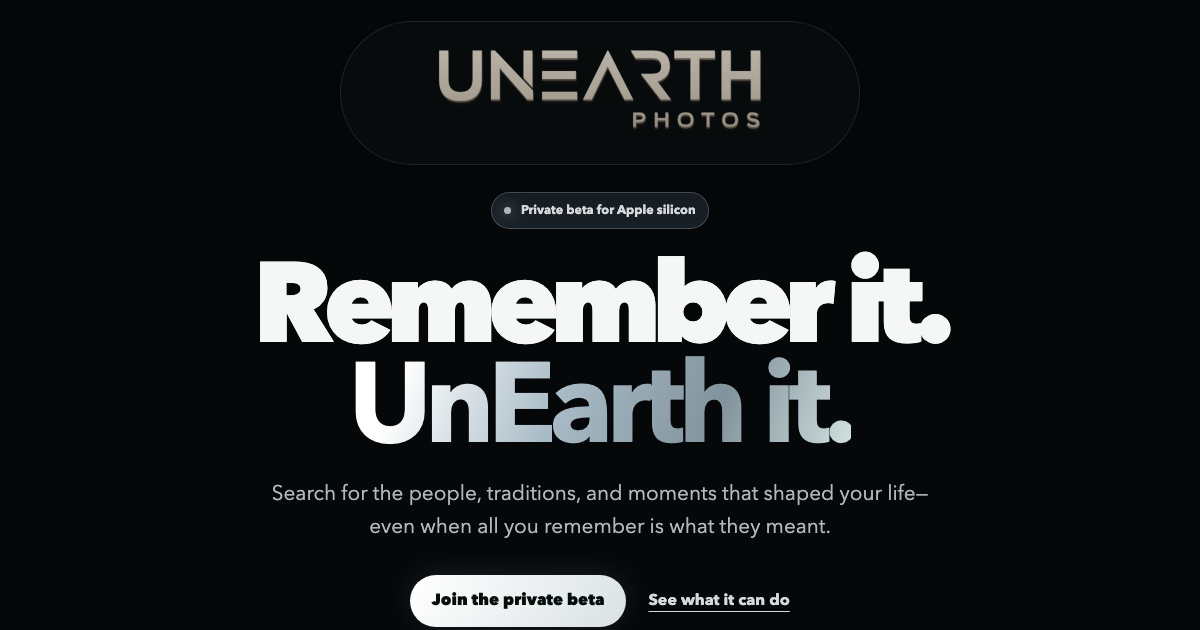
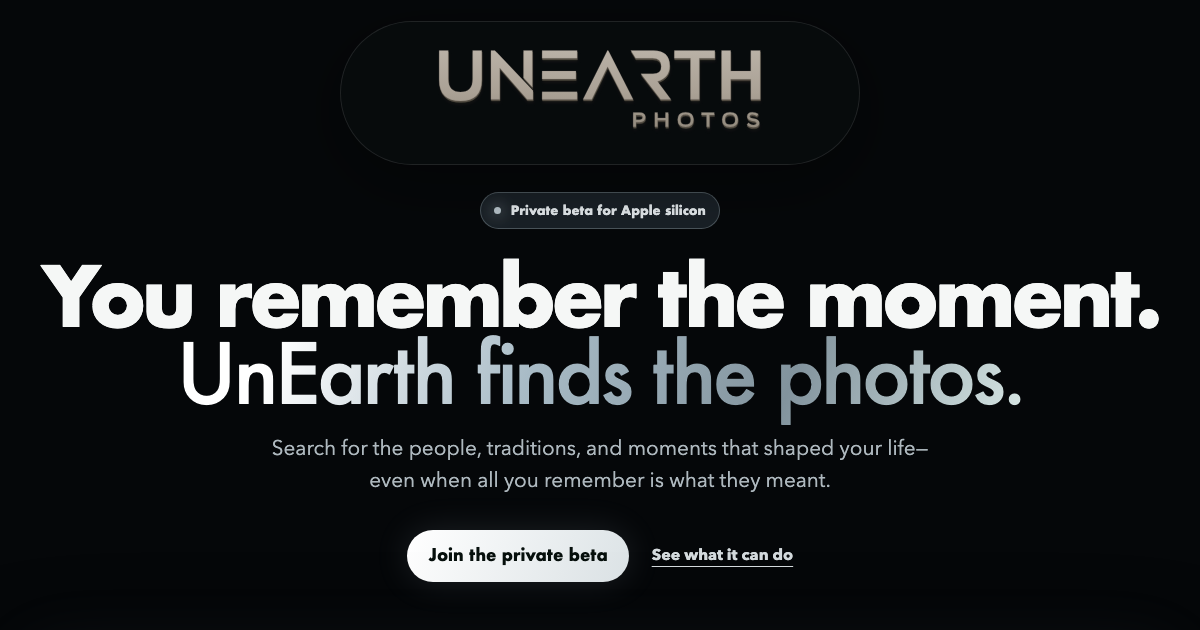
Unify display typography with geometric brand mark

Changed region(s): [[0.0308, 0.3921, 0.9867, 0.7238], [0.2158, 0.754, 0.7708, 0.9952], [0.4008, 0.3016, 0.6167, 0.3619]]

diff --git a/website/styles.css b/website/styles.css
@@ -1,12 +1,12 @@
-:root{--black:#050709;--panel:#0d1318;--navy:#132532;--emerald:#b7c3ca;--emerald-soft:#d4dce1;--silver:#b9c6ce;--gold:#f7cb78;--white:#f5f7f6;--muted:#929da4;--line:rgba(194,215,225,.15);--glass:rgba(15,25,31,.72);--sans:"Avenir Next","Helvetica Neue",Arial,sans-serif}
+:root{--black:#050709;--panel:#0d1318;--navy:#132532;--emerald:#b7c3ca;--emerald-soft:#d4dce1;--silver:#b9c6ce;--gold:#f7cb78;--white:#f5f7f6;--muted:#929da4;--line:rgba(194,215,225,.15);--glass:rgba(15,25,31,.72);--sans:"Avenir Next","Helvetica Neue",Arial,sans-serif;--display:Futura,"Avenir Next","Century Gothic",sans-serif}
 *{box-sizing:border-box}html{scroll-behavior:smooth;background:var(--black)}body{margin:0;overflow-x:hidden;color:var(--white);background:var(--black);font:16px/1.55 var(--sans)}img{display:block;max-width:100%}a{color:inherit}button,a{-webkit-tap-highlight-color:transparent}:focus-visible{outline:3px solid var(--emerald);outline-offset:4px;border-radius:6px}.skip-link{position:fixed;z-index:100;left:1rem;top:-5rem;padding:.75rem 1rem;color:#07110e;background:var(--emerald-soft)}.skip-link:focus{top:1rem}.sr-only{position:absolute;width:1px;height:1px;margin:-1px;overflow:hidden;clip:rect(0,0,0,0);white-space:nowrap}.ambient{position:fixed;z-index:-1;pointer-events:none;border-radius:50%;filter:blur(100px);opacity:.2}.ambient-one{width:36rem;height:36rem;top:8rem;left:-20rem;background:#394d5b}.ambient-two{width:38rem;height:38rem;top:55rem;right:-24rem;background:#234c68}
 .site-header{position:absolute;z-index:20;top:1.3rem;left:50%;transform:translateX(-50%);width:min(520px,calc(100% - 2rem));min-height:118px;display:flex;align-items:center;justify-content:center;padding:1rem 2rem;border:1px solid rgba(255,255,255,.1);border-radius:999px;background:rgba(8,11,13,.78);box-shadow:0 18px 65px rgba(0,0,0,.35);backdrop-filter:blur(20px)}.wordmark{width:min(340px,80%)}.wordmark img{width:100%;height:auto}.site-nav{grid-column:2/4;justify-self:end;display:flex;align-items:center;gap:1.5rem}.site-nav a{color:#bdc5ca;text-decoration:none;font-size:.87rem;font-weight:650}.site-nav a:hover{color:#fff}.site-nav .nav-cta{padding:.62rem 1rem;color:#05100c;background:var(--emerald-soft);border-radius:999px}.menu-button{display:none}
-.hero{position:relative;min-height:1040px;padding:12rem 1.25rem 6rem;text-align:center}.hero::before{content:"";position:absolute;z-index:-1;inset:0 0 auto;height:780px;background:radial-gradient(circle at 50% 35%,rgba(47,64,77,.30),transparent 47%),linear-gradient(180deg,#050709 0%,rgba(5,7,9,.5) 75%,#050709 100%)}.hero-copy{max-width:930px;margin:auto}.signal-pill{display:inline-flex;align-items:center;gap:.6rem;padding:.48rem .8rem;border:1px solid rgba(190,204,212,.30);border-radius:999px;color:#e4e9ec;background:rgba(49,63,74,.45);font-size:.78rem;font-weight:700}.signal-pill span{width:7px;height:7px;border-radius:50%;background:var(--emerald);box-shadow:0 0 15px var(--emerald)}h1,h2,h3,p{margin-top:0}h1{margin:1.8rem 0 1.4rem;font-size:clamp(4.5rem,9.4vw,9.2rem);line-height:.88;letter-spacing:-.075em;font-weight:730}h1 em{font-family:var(--sans);font-style:normal;font-weight:650;letter-spacing:-.06em;color:transparent;background:linear-gradient(110deg,#fff 12%,#a8bbc6 42%,#82939d 72%,#d8e7e5);-webkit-background-clip:text;background-clip:text}.hero-copy>p{max-width:700px;margin:auto;color:#aeb8be;font-size:clamp(1.05rem,1.8vw,1.3rem)}.hero-actions{display:flex;align-items:center;justify-content:center;gap:1.4rem;margin-top:2rem}.button{display:inline-flex;min-height:52px;align-items:center;justify-content:center;padding:.8rem 1.35rem;border-radius:999px;text-decoration:none;font-weight:760}.button-light{color:#07100d;background:linear-gradient(110deg,#fff,#dce3e6);box-shadow:0 0 35px rgba(180,194,202,.14)}.quiet-link{color:#d4dadd;font-weight:680;text-underline-offset:.35rem}.hero-stage{position:relative;max-width:1200px;height:610px;margin:4rem auto 0;overflow:hidden;border:1px solid rgba(146,163,174,.18);border-radius:34px;background:#071015;box-shadow:0 50px 120px rgba(0,0,0,.55),0 0 70px rgba(166,181,191,.08)}.hero-stage::after{content:"";position:absolute;inset:0;background:linear-gradient(180deg,rgba(4,7,9,.05),rgba(4,7,9,.35));pointer-events:none}.hero-stage>img{width:100%;height:100%;object-fit:cover}.glass{border:1px solid rgba(214,232,232,.2);background:var(--glass);box-shadow:inset 0 1px 0 rgba(255,255,255,.07),0 18px 55px rgba(0,0,0,.3);backdrop-filter:blur(20px)}.hero-search{position:absolute;z-index:3;left:50%;bottom:3rem;transform:translateX(-50%);width:min(620px,calc(100% - 3rem));min-height:66px;display:flex;align-items:center;gap:.9rem;padding:.85rem 1.1rem;border-radius:18px;text-align:left;font-weight:650}.search-symbol{position:relative;display:inline-block;flex:0 0 auto;width:18px;height:18px;border:2px solid var(--silver);border-radius:50%}.search-symbol::after{content:"";position:absolute;width:7px;height:2px;right:-5px;bottom:-2px;transform:rotate(45deg);background:var(--silver)}.command-key{margin-left:auto;padding:.12rem .42rem;border:1px solid var(--line);border-radius:6px;color:var(--muted)}.result-chip{position:absolute;z-index:3;right:2.5rem;top:2.5rem;padding:.6rem .85rem;border-radius:999px;color:#dfe8e7;font-size:.78rem;font-weight:700}.result-chip i{color:var(--gold);font-style:normal}
-.statement{max-width:1100px;margin:auto;padding:9rem 1.25rem 5rem;text-align:center}.kicker{color:var(--emerald-soft);text-transform:uppercase;letter-spacing:.16em;font-size:.73rem;font-weight:800}.statement h2,.section-heading h2,.reveal-copy h2,.beta h2{margin-bottom:1.5rem;font-size:clamp(3.5rem,7.4vw,7.4rem);line-height:.95;letter-spacing:-.065em}.statement h2 span{font-family:var(--sans);font-weight:500;color:var(--silver)}.statement-copy{max-width:700px;margin:auto;color:var(--muted);font-size:1.15rem}
+.hero{position:relative;min-height:1040px;padding:12rem 1.25rem 6rem;text-align:center}.hero::before{content:"";position:absolute;z-index:-1;inset:0 0 auto;height:780px;background:radial-gradient(circle at 50% 35%,rgba(47,64,77,.30),transparent 47%),linear-gradient(180deg,#050709 0%,rgba(5,7,9,.5) 75%,#050709 100%)}.hero-copy{max-width:1220px;margin:auto}.signal-pill{display:inline-flex;align-items:center;gap:.6rem;padding:.48rem .8rem;border:1px solid rgba(190,204,212,.30);border-radius:999px;color:#e4e9ec;background:rgba(49,63,74,.45);font-size:.78rem;font-weight:700}.signal-pill span{width:7px;height:7px;border-radius:50%;background:var(--emerald);box-shadow:0 0 15px var(--emerald)}h1,h2,h3,p{margin-top:0}h1,h2,h3,.button,.signal-pill,.kicker{font-family:var(--display)}h1{margin:1.8rem auto 1.4rem;max-width:1200px;font-size:clamp(3.4rem,6.8vw,6.8rem);line-height:.94;letter-spacing:-.055em;font-weight:600;text-wrap:balance}h1 em{font-family:var(--display);font-style:normal;font-weight:500;letter-spacing:-.045em;color:transparent;background:linear-gradient(110deg,#fff 12%,#a8bbc6 42%,#82939d 72%,#d8e7e5);-webkit-background-clip:text;background-clip:text}.hero-copy>p{max-width:700px;margin:auto;color:#aeb8be;font-size:clamp(1.05rem,1.8vw,1.3rem)}.hero-actions{display:flex;align-items:center;justify-content:center;gap:1.4rem;margin-top:2rem}.button{display:inline-flex;min-height:52px;align-items:center;justify-content:center;padding:.8rem 1.35rem;border-radius:999px;text-decoration:none;font-weight:760}.button-light{color:#07100d;background:linear-gradient(110deg,#fff,#dce3e6);box-shadow:0 0 35px rgba(180,194,202,.14)}.quiet-link{color:#d4dadd;font-weight:680;text-underline-offset:.35rem}.hero-stage{position:relative;max-width:1200px;height:610px;margin:4rem auto 0;overflow:hidden;border:1px solid rgba(146,163,174,.18);border-radius:34px;background:#071015;box-shadow:0 50px 120px rgba(0,0,0,.55),0 0 70px rgba(166,181,191,.08)}.hero-stage::after{content:"";position:absolute;inset:0;background:linear-gradient(180deg,rgba(4,7,9,.05),rgba(4,7,9,.35));pointer-events:none}.hero-stage>img{width:100%;height:100%;object-fit:cover}.glass{border:1px solid rgba(214,232,232,.2);background:var(--glass);box-shadow:inset 0 1px 0 rgba(255,255,255,.07),0 18px 55px rgba(0,0,0,.3);backdrop-filter:blur(20px)}.hero-search{position:absolute;z-index:3;left:50%;bottom:3rem;transform:translateX(-50%);width:min(620px,calc(100% - 3rem));min-height:66px;display:flex;align-items:center;gap:.9rem;padding:.85rem 1.1rem;border-radius:18px;text-align:left;font-weight:650}.search-symbol{position:relative;display:inline-block;flex:0 0 auto;width:18px;height:18px;border:2px solid var(--silver);border-radius:50%}.search-symbol::after{content:"";position:absolute;width:7px;height:2px;right:-5px;bottom:-2px;transform:rotate(45deg);background:var(--silver)}.command-key{margin-left:auto;padding:.12rem .42rem;border:1px solid var(--line);border-radius:6px;color:var(--muted)}.result-chip{position:absolute;z-index:3;right:2.5rem;top:2.5rem;padding:.6rem .85rem;border-radius:999px;color:#dfe8e7;font-size:.78rem;font-weight:700}.result-chip i{color:var(--gold);font-style:normal}
+.statement{max-width:1100px;margin:auto;padding:9rem 1.25rem 5rem;text-align:center}.kicker{color:var(--emerald-soft);text-transform:uppercase;letter-spacing:.16em;font-size:.73rem;font-weight:800}.statement h2,.section-heading h2,.reveal-copy h2,.beta h2{margin-bottom:1.5rem;font-size:clamp(3.5rem,7.4vw,7.4rem);line-height:.95;letter-spacing:-.065em}.statement h2 span{font-family:var(--display);font-weight:500;color:var(--silver)}.statement-copy{max-width:700px;margin:auto;color:var(--muted);font-size:1.15rem}
 .search-experience{position:relative;max-width:1280px;height:620px;margin:2rem auto 9rem;overflow:hidden;border:1px solid var(--line);border-radius:34px}.flow-art{width:100%;height:100%;object-fit:cover}.search-experience::after{content:"";position:absolute;inset:0;background:linear-gradient(180deg,rgba(3,6,8,.1),rgba(3,6,8,.52))}.search-overlay{position:absolute;z-index:2;inset:0;display:grid;place-content:center;width:min(740px,calc(100% - 2rem));margin:auto}.search-bar{min-height:76px;display:flex;align-items:center;gap:1rem;padding:1rem 1.3rem;border-radius:22px;font-size:clamp(1rem,2vw,1.35rem)}.query-row{display:flex;justify-content:center;flex-wrap:wrap;gap:.6rem;margin-top:1rem}.query-row span{padding:.45rem .7rem;color:#bdc8cd;background:rgba(5,10,12,.58);border:1px solid var(--line);border-radius:999px;font-size:.75rem}
 .possibilities{max-width:1280px;margin:auto;padding:5rem 1.25rem 9rem}.section-heading{margin-bottom:3rem}.section-heading h2{max-width:800px;margin-bottom:0}.bento-grid{display:grid;grid-template-columns:repeat(12,1fr);gap:1rem}.bento{position:relative;min-height:430px;overflow:hidden;padding:2rem;border:1px solid var(--line);border-radius:26px;background:linear-gradient(145deg,rgba(18,27,33,.95),rgba(8,12,15,.98))}.bento::before{content:"";position:absolute;inset:0;background:linear-gradient(130deg,rgba(255,255,255,.04),transparent 35%);pointer-events:none}.bento-search,.bento-collect{grid-column:span 7}.bento-discover,.bento-control{grid-column:span 5}.bento-copy{position:relative;z-index:2;max-width:520px}.bento-copy>span{color:var(--emerald-soft);font-size:.75rem;font-weight:780;text-transform:uppercase;letter-spacing:.13em}.bento h3{margin:.7rem 0;font-size:clamp(1.75rem,3vw,3rem);line-height:1;letter-spacing:-.04em}.bento p{color:var(--muted)}.mini-search{position:absolute;left:2rem;right:2rem;bottom:2rem;min-height:64px;display:flex;align-items:center;gap:1rem;padding:1rem;border-radius:18px;color:#dce5e6}.photo-fan{position:absolute;left:50%;bottom:-3.2rem;width:320px;height:245px;transform:translateX(-50%)}.photo-fan img{position:absolute;width:170px;height:210px;object-fit:cover;border:5px solid rgba(219,229,229,.85);border-radius:18px;box-shadow:0 20px 50px rgba(0,0,0,.45)}.photo-fan img:nth-child(1){left:0;transform:rotate(-12deg)}.photo-fan img:nth-child(2){left:75px;z-index:2}.photo-fan img:nth-child(3){right:0;transform:rotate(12deg)}.collection-stack{position:absolute;right:2rem;bottom:2rem;width:min(390px,calc(100% - 4rem))}.collection-stack div{display:grid;grid-template-columns:10px 1fr auto;align-items:center;gap:.75rem;margin-top:.55rem;padding:.8rem 1rem;border:1px solid var(--line);border-radius:12px;background:rgba(16,26,31,.8)}.collection-stack i{width:8px;height:8px;border-radius:50%;background:var(--emerald);box-shadow:0 0 12px rgba(185,198,207,.55)}.collection-stack b{color:var(--muted);font-size:.75rem}.power-orb{position:absolute;width:260px;height:260px;right:-40px;top:-40px;display:grid;place-items:center;border-radius:50%;background:radial-gradient(circle,rgba(170,184,193,.16),rgba(37,50,61,.12) 45%,transparent 70%);border:1px solid rgba(190,204,212,.12)}.power-orb::before,.power-orb::after{content:"";position:absolute;border:1px solid rgba(190,204,212,.16);border-radius:50%}.power-orb::before{inset:25px}.power-orb::after{inset:58px}.power-orb span{color:var(--gold);font-size:3rem}.bento-control .bento-copy{position:absolute;left:2rem;right:2rem;bottom:1.3rem}
 .product-reveal{max-width:1280px;margin:auto;padding:7rem 1.25rem 10rem}.reveal-copy{display:grid;grid-template-columns:1fr 1fr;gap:4rem;align-items:end;margin-bottom:3rem}.reveal-copy h2{margin:0}.reveal-copy>p{max-width:500px;color:var(--muted);font-size:1.08rem}.app-window{overflow:hidden;border:1px solid rgba(203,225,228,.22);border-radius:24px;background:#0a0e12;box-shadow:0 45px 120px rgba(0,0,0,.55);transform:perspective(1600px) rotateX(2deg)}.window-chrome{height:48px;display:flex;align-items:center;gap:7px;padding:0 1rem;border-bottom:1px solid var(--line);background:#10161b}.window-chrome span{width:10px;height:10px;border-radius:50%;background:#59656c}.window-chrome b{margin:auto;transform:translateX(-25px);font-size:.78rem;color:#9ba6ac}.app-shell{display:grid;grid-template-columns:190px 1fr;min-height:600px}.app-shell aside{display:flex;flex-direction:column;gap:.35rem;padding:1.3rem;border-right:1px solid var(--line);color:#8f9aa0}.app-shell aside strong{margin-bottom:1rem;color:#e9eded}.app-shell aside a{padding:.55rem .7rem;border-radius:8px}.app-shell aside .active{color:#eef2f3;background:rgba(172,187,196,.14)}.app-shell aside small{margin:1.4rem .7rem .3rem;color:#58666d}.app-content{padding:1.5rem}.app-search{height:52px;display:flex;align-items:center;gap:.8rem;padding:0 1rem;border:1px solid var(--line);border-radius:12px;background:#11181d}.app-search kbd{margin-left:auto;color:#75838a;background:#1a2227;border:1px solid var(--line);border-radius:5px;padding:.15rem .4rem}.app-meta{display:flex;gap:3rem;padding:1.5rem 0}.app-meta div{display:flex;flex-direction:column}.app-meta small{color:#5d6b72;font-size:.65rem}.app-meta strong{font-size:1.3rem}.app-grid{display:grid;grid-template-columns:repeat(3,1fr);gap:.75rem}.app-grid img{width:100%;height:190px;object-fit:cover;border-radius:10px}
 .trust-line{max-width:900px;margin:0 auto 9rem;display:flex;align-items:center;justify-content:center;gap:1rem;padding:1.1rem 1.4rem;color:#8e9aa0;border-top:1px solid var(--line);border-bottom:1px solid var(--line);text-align:center}.trust-line p{margin:0}.trust-line strong{color:#cbd3d6}.trust-icon{color:var(--emerald);font-size:1.4rem}.beta{position:relative;max-width:1100px;margin:0 auto 8rem;overflow:hidden;padding:7rem 1.25rem;text-align:center;border:1px solid var(--line);border-radius:36px;background:radial-gradient(circle at 50% 25%,rgba(184,197,205,.12),transparent 36%),linear-gradient(145deg,#10171c,#06090b)}.beta-glow{position:absolute;width:500px;height:180px;left:50%;top:-100px;transform:translateX(-50%);background:var(--emerald);filter:blur(120px);opacity:.13}.beta img{position:relative;margin:0 auto 1.5rem;border-radius:25px;box-shadow:0 25px 55px rgba(0,0,0,.45)}.beta h2{font-size:clamp(3.5rem,7vw,6.5rem)}.beta>p:not(.kicker){max-width:650px;margin:0 auto 2rem;color:var(--muted);font-size:1.1rem}footer{max-width:1200px;margin:auto;padding:2.5rem 1.25rem;display:flex;align-items:center;gap:2rem;border-top:1px solid var(--line);color:#69767c;font-size:.78rem}.footer-wordmark{width:150px}.footer-wordmark img{width:100%}footer p{margin:0}footer p:last-child{margin-left:auto}
 @media(max-width:900px){.hero{min-height:auto}.hero-stage{height:520px}.bento-search,.bento-discover,.bento-collect,.bento-control{grid-column:span 12}.reveal-copy{grid-template-columns:1fr;gap:1rem}.app-shell{grid-template-columns:140px 1fr}.app-grid{grid-template-columns:repeat(2,1fr)}}
-@media(max-width:680px){.site-header{width:calc(100vw - 2rem);min-height:100px;padding:1rem}.wordmark{width:min(270px,78vw)}.menu-button{display:grid;place-content:center;gap:6px;width:44px;height:44px;border:0;background:transparent}.menu-button span:not(.sr-only){display:block;width:22px;height:2px;background:#dce4e6}.site-nav{display:none;position:absolute;top:66px;left:0;right:0;grid-column:auto;flex-direction:column;align-items:stretch;gap:.3rem;padding:1rem;background:rgba(8,11,13,.96);border:1px solid var(--line);border-radius:18px}.site-nav.open{display:flex}.site-nav a{padding:.7rem}.site-nav .nav-cta{text-align:center}.hero{width:100vw;padding:10.5rem 1rem 6rem}.hero-copy>p{max-width:330px;font-size:1rem}.hero h1{font-size:clamp(2.9rem,12vw,3.6rem)}.hero-actions{flex-direction:column}.hero-stage{height:470px;margin-top:3rem;border-radius:24px}.hero-stage>img{object-position:63% center}.hero-search{bottom:1rem;font-size:.8rem}.result-chip{top:1rem;right:1rem;max-width:75%;white-space:nowrap;overflow:hidden;text-overflow:ellipsis}.statement{padding-top:6rem}.statement h2,.section-heading h2,.reveal-copy h2,.beta h2{font-size:clamp(3.2rem,15vw,4.6rem)}.search-experience{height:500px;margin-bottom:5rem;border-radius:24px}.flow-art{object-position:62% center}.query-row span:nth-child(n+3){display:none}.section-heading{display:block}.bento{min-height:400px;padding:1.4rem}.mini-search{left:1.4rem;right:1.4rem;bottom:1.4rem}.collection-stack{left:1.4rem;right:1.4rem;bottom:1.4rem;width:auto}.bento-control .bento-copy{left:1.4rem;right:1.4rem}.product-reveal{overflow:hidden;padding-top:4rem}.app-window{width:780px;transform:perspective(1600px) rotateX(2deg) translateX(-12%)}.trust-line{margin-left:1rem;margin-right:1rem}.beta{margin-left:1rem;margin-right:1rem;padding:5rem 1rem}footer{align-items:flex-start;flex-direction:column;gap:.6rem}footer p:last-child{margin-left:0}}
+@media(max-width:680px){.site-header{width:calc(100vw - 2rem);min-height:100px;padding:1rem}.wordmark{width:min(270px,78vw)}.menu-button{display:grid;place-content:center;gap:6px;width:44px;height:44px;border:0;background:transparent}.menu-button span:not(.sr-only){display:block;width:22px;height:2px;background:#dce4e6}.site-nav{display:none;position:absolute;top:66px;left:0;right:0;grid-column:auto;flex-direction:column;align-items:stretch;gap:.3rem;padding:1rem;background:rgba(8,11,13,.96);border:1px solid var(--line);border-radius:18px}.site-nav.open{display:flex}.site-nav a{padding:.7rem}.site-nav .nav-cta{text-align:center}.hero{width:100vw;padding:10.5rem 1rem 6rem}.hero-copy>p{max-width:330px;font-size:1rem}.hero h1{font-size:clamp(2.55rem,10vw,3.25rem);line-height:1}.hero-actions{flex-direction:column}.hero-stage{height:470px;margin-top:3rem;border-radius:24px}.hero-stage>img{object-position:63% center}.hero-search{bottom:1rem;font-size:.8rem}.result-chip{top:1rem;right:1rem;max-width:75%;white-space:nowrap;overflow:hidden;text-overflow:ellipsis}.statement{padding-top:6rem}.statement h2,.section-heading h2,.reveal-copy h2,.beta h2{font-size:clamp(3.2rem,15vw,4.6rem)}.search-experience{height:500px;margin-bottom:5rem;border-radius:24px}.flow-art{object-position:62% center}.query-row span:nth-child(n+3){display:none}.section-heading{display:block}.bento{min-height:400px;padding:1.4rem}.mini-search{left:1.4rem;right:1.4rem;bottom:1.4rem}.collection-stack{left:1.4rem;right:1.4rem;bottom:1.4rem;width:auto}.bento-control .bento-copy{left:1.4rem;right:1.4rem}.product-reveal{overflow:hidden;padding-top:4rem}.app-window{width:780px;transform:perspective(1600px) rotateX(2deg) translateX(-12%)}.trust-line{margin-left:1rem;margin-right:1rem}.beta{margin-left:1rem;margin-right:1rem;padding:5rem 1rem}footer{align-items:flex-start;flex-direction:column;gap:.6rem}footer p:last-child{margin-left:0}}
 @media(prefers-reduced-motion:reduce){html{scroll-behavior:auto}*,*::before,*::after{animation-duration:.01ms!important;transition-duration:.01ms!important}}@media(prefers-contrast:more){:root{--muted:#bac2c6;--line:rgba(255,255,255,.35)}.glass{background:#10171c}.button-light{outline:2px solid #fff}}

diff --git a/website/index.html b/website/index.html
@@ -19,10 +19,10 @@
   </header>
   <main id="main">
     <section class="hero" id="top">
-      <div class="hero-copy"><div class="signal-pill"><span></span> Private beta for Apple silicon</div><h1>Remember it.<br><em>UnEarth it.</em></h1><p>Search for the people, traditions, and moments that shaped your life—even when all you remember is what they meant.</p><div class="hero-actions"><a class="button button-light" href="#beta">Join the private beta</a><a class="quiet-link" href="#power">See what it can do</a></div></div>
+      <div class="hero-copy"><div class="signal-pill"><span></span> Private beta for Apple silicon</div><h1>You remember the moment.<br><em>UnEarth finds the photos.</em></h1><p>Search for the people, traditions, and moments that shaped your life—even when all you remember is what they meant.</p><div class="hero-actions"><a class="button button-light" href="#beta">Join the private beta</a><a class="quiet-link" href="#power">See what it can do</a></div></div>
       <div class="hero-stage" aria-label="Illustration of UnEarth connecting photos with AI"><img src="assets/hero-intelligence-v2.png" alt="Floating photo tiles linked by emerald light on a dark flowing background"><div class="hero-search glass"><span class="search-symbol" aria-hidden="true"></span><span>the times Grandpa was laughing</span><span class="command-key" aria-hidden="true">↵</span></div><div class="result-chip glass"><i aria-hidden="true">✦</i> Moments found across the years</div></div>
     </section>
-    <section class="statement" id="power"><p class="kicker">A new kind of access</p><h2>You remember the moment.<br><span>UnEarth finds the photo.</span></h2><p class="statement-copy">No perfect filename. No endless scrolling. Describe what’s in your head and move through your library like it finally understands you.</p></section>
+    <section class="statement" id="power"><p class="kicker">A new kind of access</p><h2>A memory is bigger<br>than a keyword.<br><span>Search across the years.</span></h2><p class="statement-copy">No perfect filename. No endless scrolling. Describe what’s in your head and move through your library like it finally understands you.</p></section>
     <section class="search-experience"><img class="flow-art" src="assets/search-flow-v2.png" alt="Emerald and silver light converging through a dark glass search field"><div class="search-overlay"><div class="search-bar glass"><span class="search-symbol"></span><strong>the girls together over the years</strong><span class="command-key">↵</span></div><div class="query-row" aria-label="Example searches"><span>Dad teaching us to swim</span><span>every Christmas morning</span><span>all the road trips together</span></div></div></section>
     <section class="possibilities" id="possibilities"><div class="section-heading"><div><p class="kicker">One library. More possible.</p><h2>See more in<br>what you already have.</h2></div></div>
       <div class="bento-grid">
